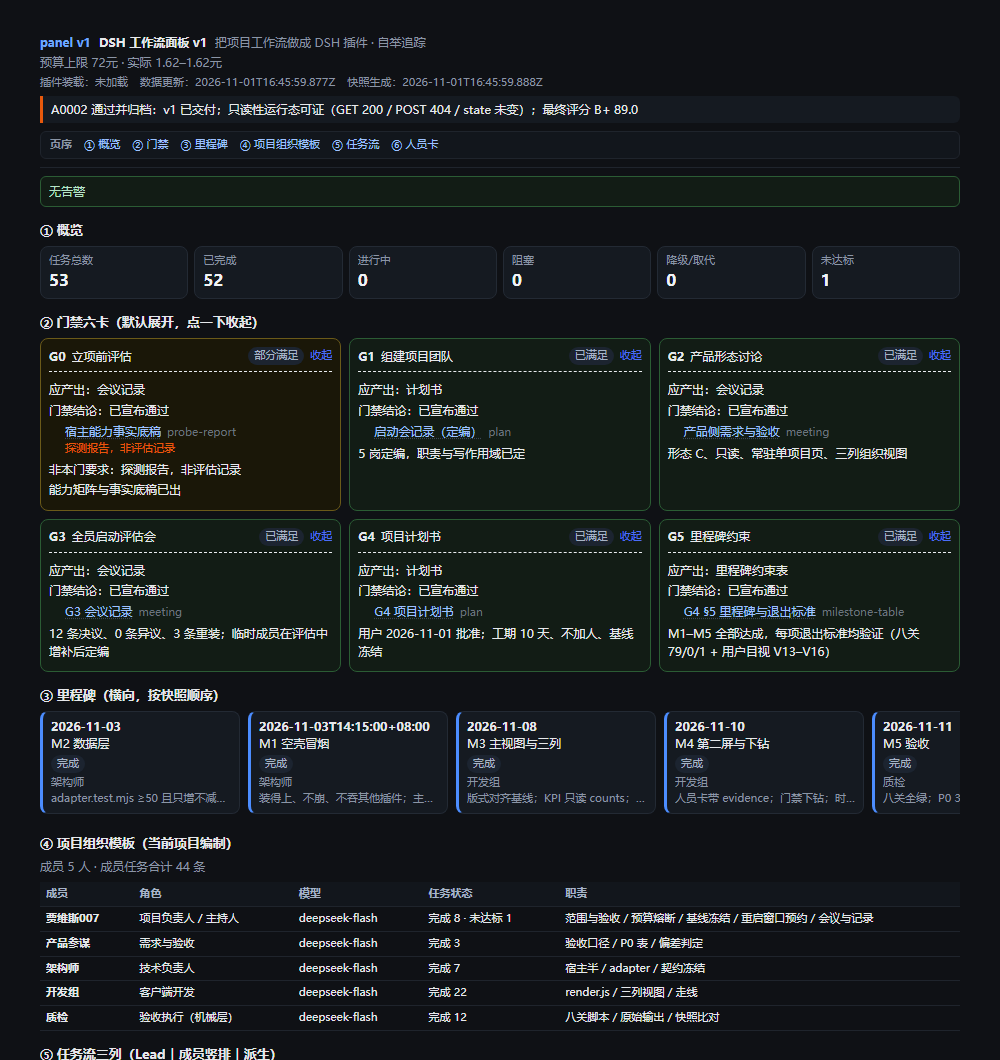
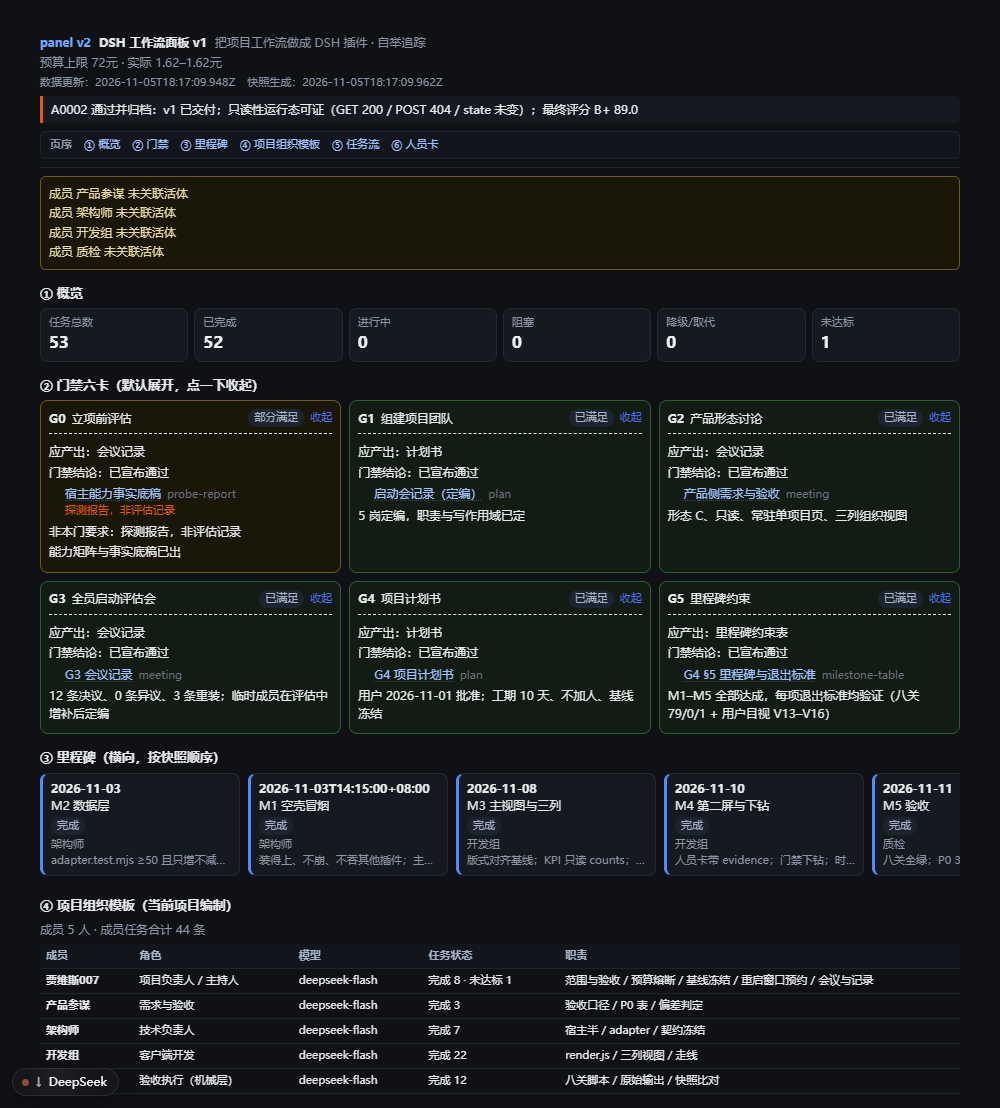
fix: 时间戳不再硬报未加载; 重制三张市场截图 (v0.1.5 补充)
- render.js: 三个时间戳按实际存在与否渲染, 字段缺席整条不显示,
  全缺席才给一句兜底; 修掉离线渲染把缺字段误报成插件未装好
- live-snapshot-check: 断言改为随字段存在与否自适应
- 重制 assets/screenshot-{1,2,3}.png: 移除滚动条/悬停提示残影,
  同步 panel v2 与真实时间戳, 三列任务流连线完整

diff --git a/client/client.js b/client/client.js
@@ -28,7 +28,7 @@ if (!window.__WP_CLIENT_LOADED__) {
 
     // ---- 以下整段由 sync-client.mjs 从 render.js 生成，勿手改 ----
     /*__RENDERER_BEGIN__*/
-    // Workflow panel — pure renderer.
+    // Workflow panel — pure renderer.
     //
     // Contract (M3, frozen by Lead): render(snapshot, ui) -> HTML string. This file must not touch
     // document / window / DOM globals, so tests import the exact code the slot runs. Interaction
@@ -93,16 +93,20 @@ if (!window.__WP_CLIENT_LOADED__) {
     const statusLabel = (raw, label) => asText(label) || STATUS_TEXT[raw] || asText(raw) || '未知状态'
 
     function header(snap) {
-      // 宿主发的字段是 loadedAt（host.js LOADED_AT）；旧 fixture 用的是 pluginLoadedAt。
+      // 宿主发的字段是 loadedAt（host.js LOADED_AT）；旧 fixture / 离线工具用的是 pluginLoadedAt。
       // 两处名字曾经对不上，导致「插件装载」时间永远显示未加载——这里两处都认，优先宿主字段。
+      // 两者都没有时（离线渲染、fixture 缺字段）整条不显示，而不是硬报「未加载」——
+      // 那会把「这份数据没有这个字段」说成「插件没装好」，是两种完全不同的故障。
       const loadedIso = toIso(snap.loadedAt ?? snap.pluginLoadedAt)
       const times = [
         ['pluginLoadedAt', '插件装载', loadedIso],
         ['readAt', '数据更新', toIso(snap.readAt)],
         ['generatedAt', '快照生成', toIso(snap.generatedAt)],
-      ].map(([key, label, iso]) => {
-        return `<span class="wp-time" data-time="${key}">${esc(label)}：${iso ? esc(iso) : NOT_LOADED}</span>`
-      })
+      ]
+        .filter(([, , iso]) => iso)
+        .map(([key, label, iso]) => `<span class="wp-time" data-time="${key}">${esc(label)}：${esc(iso)}</span>`)
+      // 三个时间戳全缺席时仍要有一句话，否则头部的这一行会整块消失、看起来像渲染 bug。
+      if (!times.length) times.push(`<span class="wp-time" data-time="none">时间戳：${NOT_LOADED}</span>`)
       const budget = snap.project && snap.project.budget
       const budgetText = budget && budget.cap != null
         ? `预算上限 ${esc(budget.cap)}${esc(asText(budget.unit))} · 实际 ${esc(budget.spent_low)}–${esc(budget.spent_high)}${esc(asText(budget.unit))}`

diff --git a/client/render.js b/client/render.js
@@ -1,4 +1,4 @@
-// Workflow panel — pure renderer.
+// Workflow panel — pure renderer.
 //
 // Contract (M3, frozen by Lead): render(snapshot, ui) -> HTML string. This file must not touch
 // document / window / DOM globals, so tests import the exact code the slot runs. Interaction
@@ -63,16 +63,20 @@ const STATUS_TEXT = {
 const statusLabel = (raw, label) => asText(label) || STATUS_TEXT[raw] || asText(raw) || '未知状态'
 
 function header(snap) {
-  // 宿主发的字段是 loadedAt（host.js LOADED_AT）；旧 fixture 用的是 pluginLoadedAt。
+  // 宿主发的字段是 loadedAt（host.js LOADED_AT）；旧 fixture / 离线工具用的是 pluginLoadedAt。
   // 两处名字曾经对不上，导致「插件装载」时间永远显示未加载——这里两处都认，优先宿主字段。
+  // 两者都没有时（离线渲染、fixture 缺字段）整条不显示，而不是硬报「未加载」——
+  // 那会把「这份数据没有这个字段」说成「插件没装好」，是两种完全不同的故障。
   const loadedIso = toIso(snap.loadedAt ?? snap.pluginLoadedAt)
   const times = [
     ['pluginLoadedAt', '插件装载', loadedIso],
     ['readAt', '数据更新', toIso(snap.readAt)],
     ['generatedAt', '快照生成', toIso(snap.generatedAt)],
-  ].map(([key, label, iso]) => {
-    return `<span class="wp-time" data-time="${key}">${esc(label)}：${iso ? esc(iso) : NOT_LOADED}</span>`
-  })
+  ]
+    .filter(([, , iso]) => iso)
+    .map(([key, label, iso]) => `<span class="wp-time" data-time="${key}">${esc(label)}：${esc(iso)}</span>`)
+  // 三个时间戳全缺席时仍要有一句话，否则头部的这一行会整块消失、看起来像渲染 bug。
+  if (!times.length) times.push(`<span class="wp-time" data-time="none">时间戳：${NOT_LOADED}</span>`)
   const budget = snap.project && snap.project.budget
   const budgetText = budget && budget.cap != null
     ? `预算上限 ${esc(budget.cap)}${esc(asText(budget.unit))} · 实际 ${esc(budget.spent_low)}–${esc(budget.spent_high)}${esc(asText(budget.unit))}`

diff --git a/CHANGELOG.md b/CHANGELOG.md
@@ -20,6 +20,8 @@
 
 - 容器类名 `.wp-sidebar-host` → `.wp-view-host`（它现在是顶部视图，不是侧栏）。
 - `client.js` 体积进一步降到 ~76KB。
+- **时间戳不再硬报「未加载」**：三个时间戳按实际存在与否渲染，字段缺席时整条不显示（全缺席才给一句兜底）。此前离线渲染 / fixture 缺 `loadedAt` 时会把「数据没这个字段」误报成「插件没装好」。
+- 重制三张市场截图：移除浏览器滚动条与悬停提示残影，并同步 `panel v2` / 真实时间戳等最新渲染。
 
 ## [0.1.4] - 2026-11-06
 
